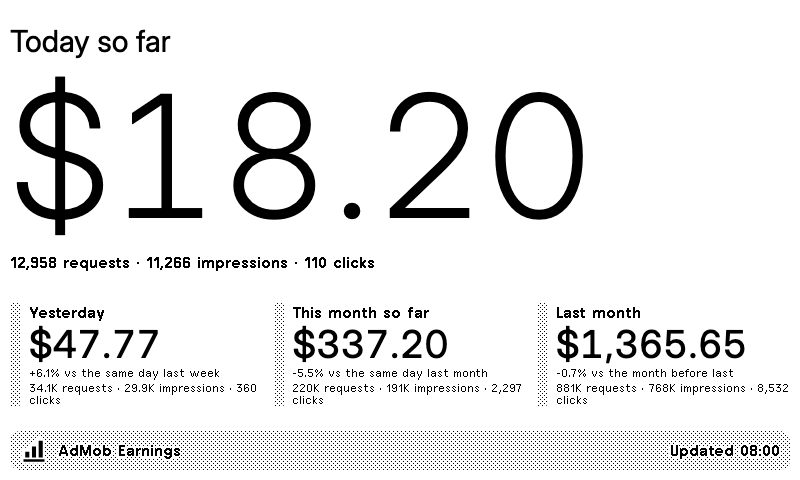
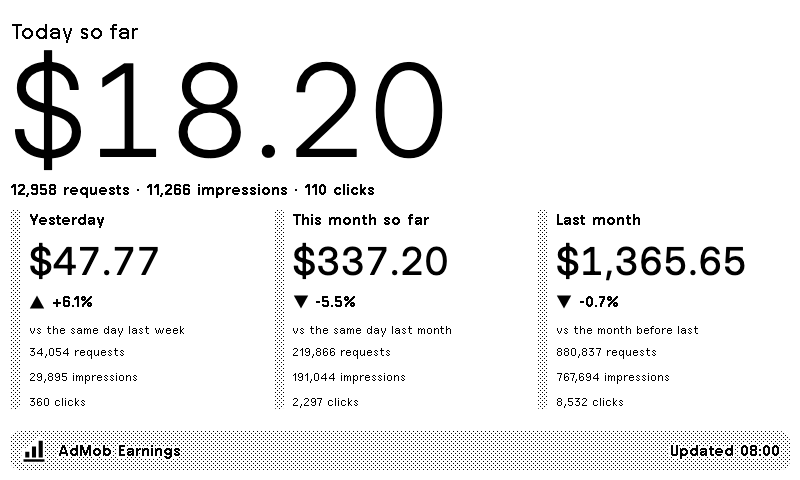
Add up and down markers and give AdMob tile details their own lines
Change lines start with an inline SVG triangle in the screen's ink. In the full
view the change sits on its own, larger line above the "vs ..." period, and
requests, impressions and clicks each get a line with exact counts; portrait
tiles put the counts in a right-hand column. Text steps up on TRMNL X and in
portrait so the full view fills the screen.

Changed region(s): [[0.0, 0.0312, 0.8125, 0.8438], [0.6562, 0.5, 0.9375, 0.8438], [0.0, 0.5938, 0.2812, 0.8438]]

diff --git a/apps/admob-earnings/src/transform.js b/apps/admob-earnings/src/transform.js
@@ -71,11 +71,13 @@ function transform(input) {
   const style = ['amount', 'both'].includes(options.comparison_style) ? options.comparison_style : 'percent';
   const tile = (key, label, totals, compare) => {
     const result = { key, label, amount: formatMoney(totals.micros, currency), amount_compact: compactMoney(totals.micros, currency), amount_short: compactMoney(totals.micros, currency, 1000), micros: totals.micros, ...metrics(totals) };
-    if (!compare) return { ...result, compare_label: '', compare_amount: '', delta_percent: '', delta_amount: '', direction: 'none', comparison: '', comparison_short: '' };
-    if (!covered(compare.from)) return { ...result, compare_label: compare.label, compare_amount: '', delta_percent: '', delta_amount: '', direction: 'none', comparison: `No data for ${compare.label}`, comparison_short: '' };
+    if (!compare) return { ...result, compare_label: '', compare_amount: '', delta_percent: '', delta_amount: '', direction: 'none', change: '', compare_phrase: '', comparison: '', comparison_short: '' };
+    if (!covered(compare.from)) return { ...result, compare_label: compare.label, compare_amount: '', delta_percent: '', delta_amount: '', direction: 'none', change: '', compare_phrase: `No data for ${compare.label}`, comparison: `No data for ${compare.label}`, comparison_short: '' };
     const change = delta(totals.micros, compare.micros, currency);
     const text = style === 'amount' ? change.delta_amount : style === 'both' ? `${change.delta_percent} (${change.delta_amount})` : change.delta_percent;
     return { ...result, compare_label: compare.label, compare_amount: formatMoney(compare.micros, currency), ...change,
+      // Wide tiles show the change on its own line and the period beneath it.
+      change: text, compare_phrase: `vs ${compare.label}`,
       comparison: `${text} vs ${compare.label}`, comparison_short: style === 'amount' ? change.delta_amount : change.delta_percent };
   };
   const tiles = [
@@ -105,6 +107,8 @@ function metrics(totals) {
   return {
     requests: exact(totals.requests), impressions: exact(totals.impressions), clicks: exact(totals.clicks),
     metrics_line: `${exact(totals.requests)} ${plural(totals.requests, 'request')} · ${exact(totals.impressions)} ${plural(totals.impressions, 'impression')} · ${exact(totals.clicks)} ${plural(totals.clicks, 'click')}`,
+    // One line per count for tiles that stack them.
+    metric_lines: [`${exact(totals.requests)} ${plural(totals.requests, 'request')}`, `${exact(totals.impressions)} ${plural(totals.impressions, 'impression')}`, `${exact(totals.clicks)} ${plural(totals.clicks, 'click')}`],
     metrics_line_compact: `${compact(totals.requests)} ${plural(totals.requests, 'request')} · ${compact(totals.impressions)} ${plural(totals.impressions, 'impression')} · ${compact(totals.clicks)} ${plural(totals.clicks, 'click')}`,
   };
 }
@@ -127,13 +131,13 @@ const VALUE_SIZES = [['xsmall', 20], ['small', 26], ['base', 38], ['large', 58],
 const PREFIXES = ['', 'portrait:', 'lg:', 'lg:portrait:'];
 const ROOM = {
   primary: {
-    full: { width: [770, 455, 1010, 755], cap: [170, 170, 220, 220] },
+    full: { width: [770, 455, 1010, 755], cap: [128, 128, 220, 170] },
     half_horizontal: { width: [290, 435, 390, 735], cap: [128, 128, 170, 170] },
     half_vertical: { width: [380, 220, 500, 370], cap: [96, 128, 170, 170] },
     quadrant: { width: [380, 220, 500, 370], cap: [74, 96, 128, 128] },
   },
   secondary: {
-    full: { width: [228, 442, 305, 742], cap: [58, 74, 74, 96] },
+    full: { width: [228, 290, 305, 560], cap: [58, 58, 74, 74] },
     half_horizontal: { width: [126, 122, 174, 222], cap: [38, 38, 58, 58] },
     half_vertical: { width: [347, 187, 467, 337], cap: [38, 58, 58, 74] },
     quadrant: { width: [115, 85, 155, 190], cap: [26, 26, 38, 38] },

diff --git a/apps/admob-earnings/test/transform.test.js b/apps/admob-earnings/test/transform.test.js
@@ -125,6 +125,7 @@ test('sums requests, impressions and clicks for every tile', () => {
   // 30 days of September.
   assert.equal(tile(result, 'last_month').metrics_line_compact, '36K requests · 30K impressions · 30 clicks');
   assert.equal(tile(result, 'last_month').impressions, '30,000');
+  assert.equal(tile(result, 'month').metric_lines.join(' | '), '9,600 requests | 8,000 impressions | 8 clicks');
 });
 
 test('reports when the figures were fetched, in the TRMNL user\'s time', () => {
@@ -183,6 +184,9 @@ test('writes comparisons in the chosen style', () => {
   assert.equal(line('amount').comparison, '+$10.00 vs the same day last week');
   assert.equal(line('both').comparison, '+25.0% (+$10.00) vs the same day last week');
   assert.equal(line('amount').comparison_short, '+$10.00');
+  // Wide tiles split the change from its period.
+  assert.equal(line('both').change, '+25.0% (+$10.00)');
+  assert.equal(line('both').compare_phrase, 'vs the same day last week');
   assert.equal(line(undefined).comparison_short, '+25.0%');
   const down = tile(run(report({ '2026-09-30': 50, '2026-10-07': 40 }, { start: '2026-07-07' }), { now: '2026-10-08T12:00:00Z' }), 'yesterday');
   assert.equal(down.delta_percent, '-20.0%');
@@ -221,7 +225,7 @@ test('sizes the primary and secondary amounts from their widest values', () => {
     assert.match(small[group][view], /^value--\w+ portrait:value--\w+ lg:value--\w+ lg:portrait:value--\w+$/);
   }
   // A short today figure is fat; a seven-digit last month shrinks only the secondary tiles.
-  assert.equal(small.primary.full.split(' ')[0], 'value--mega');
+  assert.equal(small.primary.full.split(' ')[0], 'value--xxxlarge');
   assert.equal(small.primary.full.split(' ')[2], 'lg:value--giga');
   assert.equal(large.primary.full, run(report({ '2026-10-08': 3 }, { currency: 'JPY', start: '2026-07-07' }), at).amount_classes.primary.full);
   assert.notEqual(small.secondary.full, large.secondary.full);

diff --git a/apps/admob-earnings/test/plugin.test.js b/apps/admob-earnings/test/plugin.test.js
@@ -73,7 +73,7 @@ test('every fixture renders all four views with framework markup only', async ()
     }
   }
   const full = await renderView(plugin, 'full', { data: plugin.fixtures.usd, ...previewTiming(plugin, 'usd') });
-  for (const text of ['Today so far', '$18.20', '$47.77', '$337.20', '$1,365.65', '+6.1% vs the same day last week', '12,958 requests', 'Updated 08:00']) assert.ok(full.includes(text), text);
+  for (const text of ['Today so far', '$18.20', '$47.77', '$337.20', '$1,365.65', '+6.1%', 'vs the same day last week', '12,958 requests', '34,054 requests', 'Updated 08:00']) assert.ok(full.includes(text), text);
   const noCurrency = structuredClone(plugin.fixtures.usd);
   delete noCurrency.data[0].header.localizationSettings;
   const bare = await renderView(plugin, 'full', { data: noCurrency, ...previewTiming(plugin, 'usd') });

diff --git a/apps/admob-earnings/README.md b/apps/admob-earnings/README.md
@@ -9,7 +9,7 @@ A TRMNL recipe that shows Google AdMob estimated earnings at a glance, in the ac
 | This month so far | Month to date, including today | "{change} vs the same day last month" |
 | Last month | The previous full month | "{change} vs the month before last" |
 
-Every tile also shows its ad requests, impressions and clicks in small type; AdMob has no page-view metric. The change is a percentage, an amount or both, set in the plugin. The title bar shows when the figures were fetched ("Updated 08:00") instead of dates.
+Every tile also shows its ad requests, impressions and clicks; in the full view each count has its own line. AdMob has no page-view metric. Changes carry a ▲ or ▼ marker drawn as an inline SVG (never an emoji), and in the full view the change sits on its own line above the "vs …" period. The change is a percentage, an amount or both, set in the plugin. The title bar shows when the figures were fetched ("Updated 08:00") instead of dates.
 
 Installers sign in with Google and pick their AdMob account from a list. There is no API key to paste and no hosted service: TRMNL polls the AdMob API with the installer's OAuth token and a transform turns the report into the four tiles.
 
